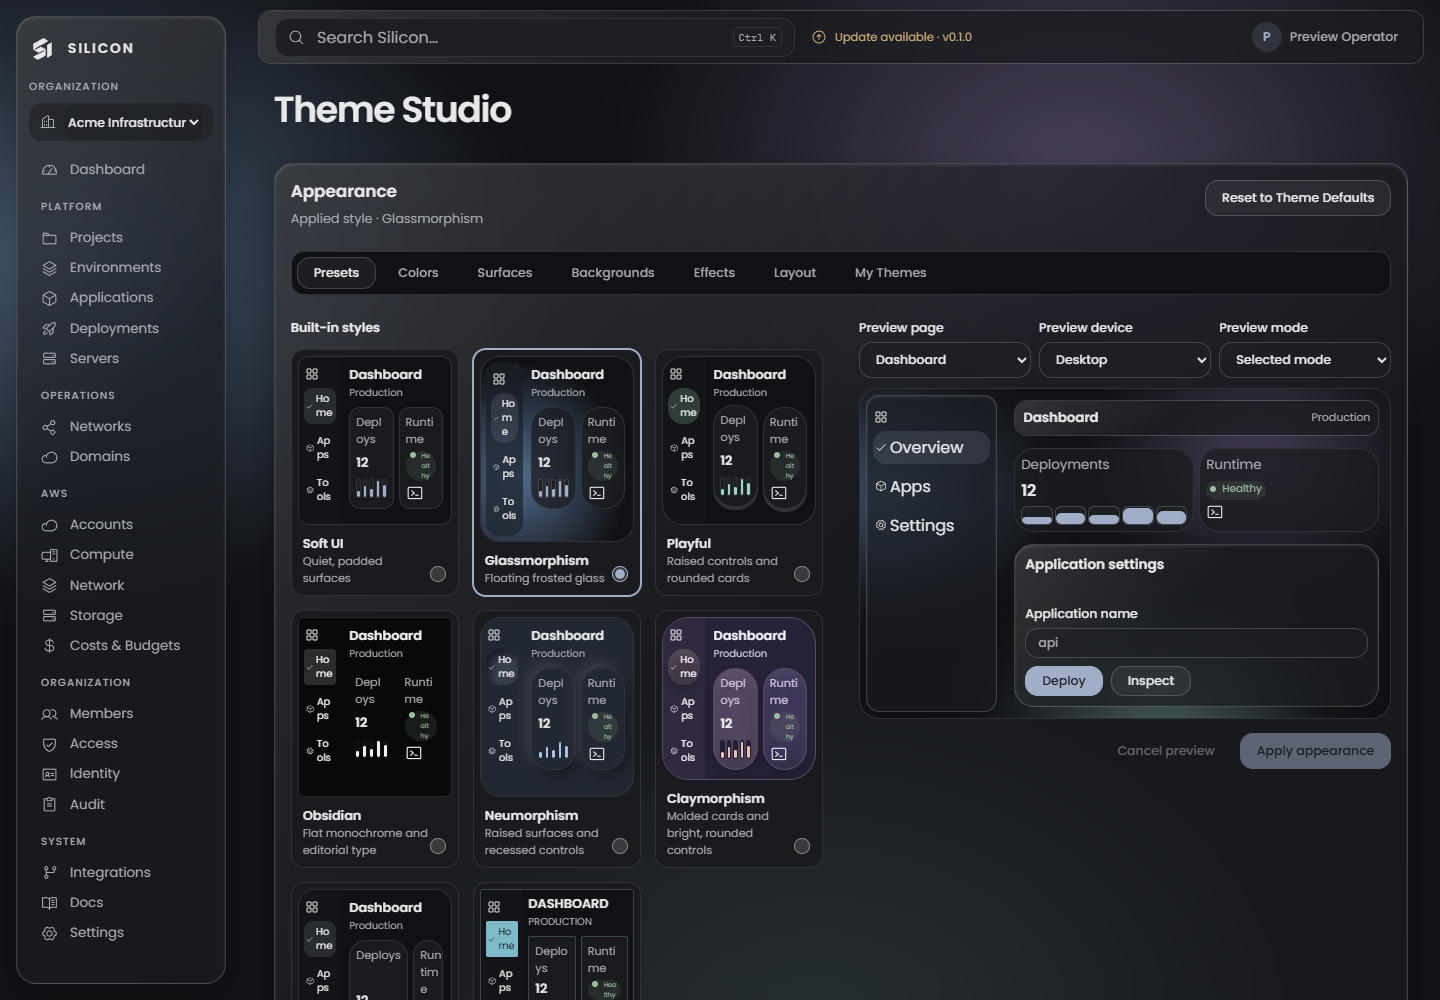
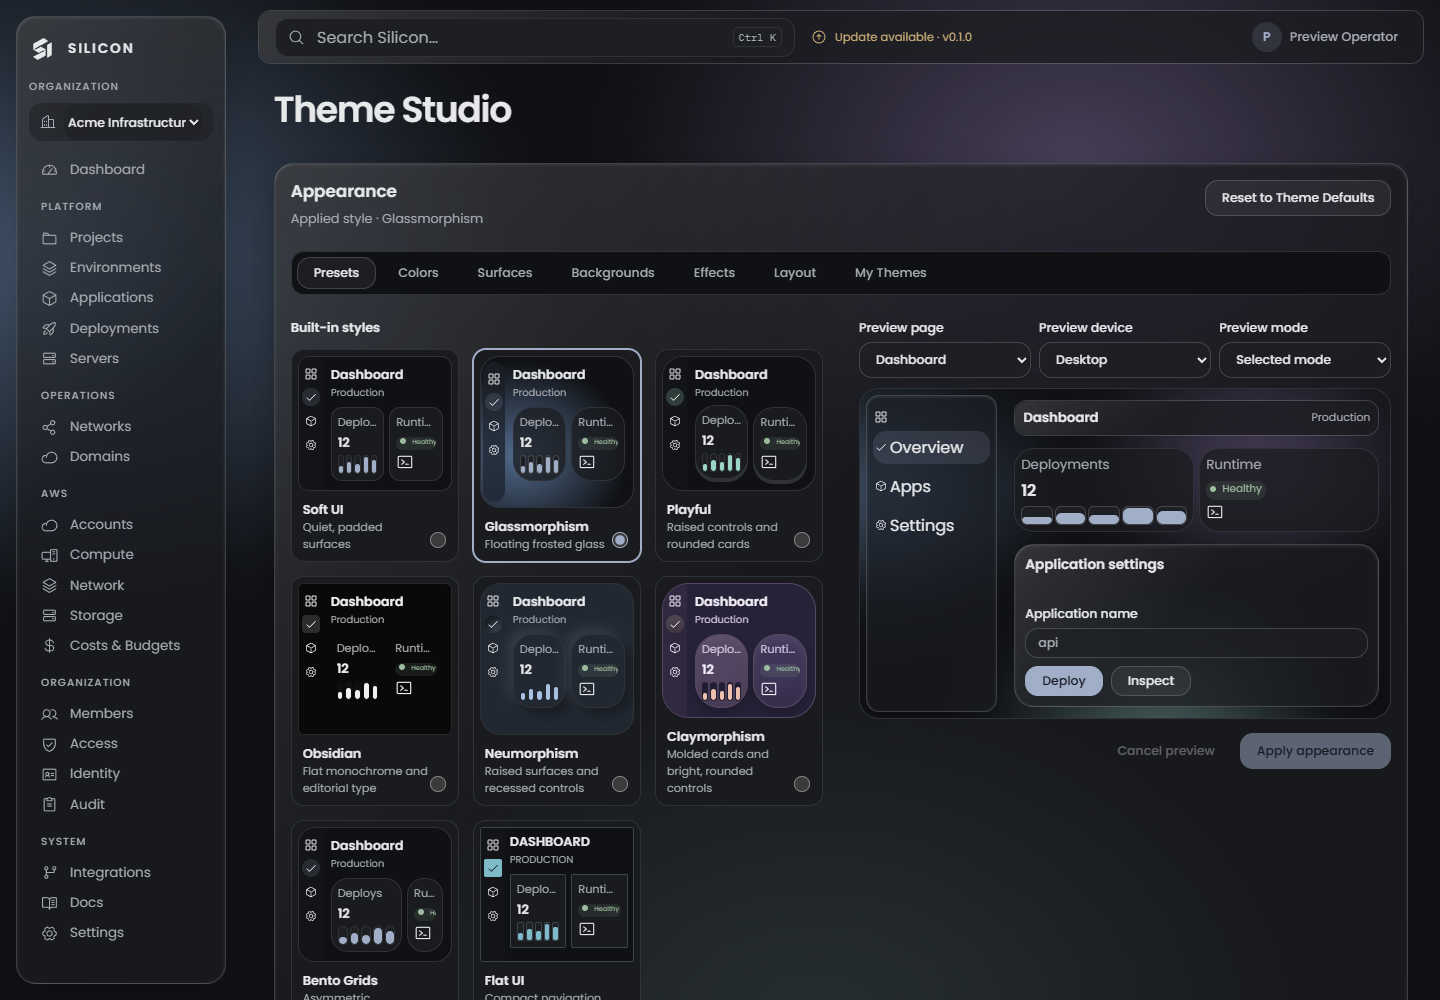
Fit Theme Studio thumbnails on narrow screens

Changed region(s): [[0.1875, 0.372, 0.5938, 1.0], [0.5312, 0.837, 0.5625, 0.868]]

diff --git a/frontend/src/theme-studio.css b/frontend/src/theme-studio.css
@@ -41,6 +41,13 @@
 .studio-live[data-dashboard='modular'] .preview-grid { grid-template-columns: 2fr minmax(0,1fr); }
 .studio-live[data-dashboard='standard'] .preview-grid { grid-template-columns: repeat(2,minmax(0,1fr)); }
 .studio-live[data-density='compact'] .section { padding: 6px; }
+.theme-preview-mini { grid-template-columns: 24px minmax(0,1fr); }
+.theme-preview-mini .preview-nav { align-items: center; padding-inline: 2px; }
+.theme-preview-mini .preview-nav > span { width: 18px; height: 18px; justify-content: center; padding: 0; }
+.theme-preview-mini .preview-nav > span svg { display: block; flex: none; }
+.theme-preview-mini[data-style='glass'] .preview-nav { margin-inline-start: 2px; }
+.theme-preview-mini .preview-tile > small { overflow: hidden; text-overflow: ellipsis; white-space: nowrap; }
+.theme-preview-mini .preview-tile .status { max-width: 100%; overflow: hidden; white-space: nowrap; }
 .theme-preview .preview-bars .deployment-chart-track { flex: 1; height: 100%; }
 .theme-preview[data-style='neumorphism'] .preview-tile { box-shadow: var(--raised-shadow); }
 .theme-preview[data-style='neumorphism'] .preview-nav > span:first-of-type { box-shadow: var(--inset-shadow); }
@@ -81,6 +88,8 @@
 }
 @media (max-width: 560px) {
   .studio-workbench .studio-gallery { grid-template-columns: repeat(2,minmax(0,1fr)); }
+  .theme-preview-mini .preview-workspace { padding-inline: 4px; }
+  .theme-preview-mini .preview-tile { padding-inline: 4px; }
   .studio-live .preview-nav > span svg { display: none; }
   .studio-live .preview-nav > span { padding-inline: 1px; }
 }

diff --git a/frontend/src/components/ThemePreview.jsx b/frontend/src/components/ThemePreview.jsx
@@ -15,7 +15,7 @@ export function ThemePreview({ style, mode, density, theme, motion, asset, page 
     data-sidebar={theme?.layout?.sidebar} data-width={theme?.layout?.width} data-dashboard={theme?.layout?.dashboard} data-motion={motion} style={theme ? themeProperties(theme, mode) : undefined}>
     {!mini && <SurfaceStyles theme={theme} previewId={id} />}
     {!mini && <BackgroundLayer style={style} theme={theme} motion={motion} asset={asset} preview dashboard={isDashboard} />}
-    <div className={mini ? 'preview-nav' : 'sidebar preview-nav'}><SquaresFourIcon size={16} /><span><CheckIcon size={12} /> {mini ? 'Home' : 'Overview'}</span><span><CubeIcon size={12} /> Apps</span><span><GearIcon size={12} /> {mini ? 'Tools' : 'Settings'}</span></div>
+    <div className={mini ? 'preview-nav' : 'sidebar preview-nav'}><SquaresFourIcon size={16} /><span><CheckIcon size={12} />{!mini && 'Overview'}</span><span><CubeIcon size={12} />{!mini && 'Apps'}</span><span><GearIcon size={12} />{!mini && 'Settings'}</span></div>
     <div className={mini ? 'preview-workspace' : 'workspace preview-workspace'}>
       <div className={mini ? 'preview-heading' : 'topbar preview-heading'}><strong>{({ dashboard: 'Dashboard', application: 'Application', form: 'Configuration', table: 'Deployments', dialog: 'Runtime' })[page]}</strong><span>Production</span></div>
       {isDashboard && <div className="preview-grid">
